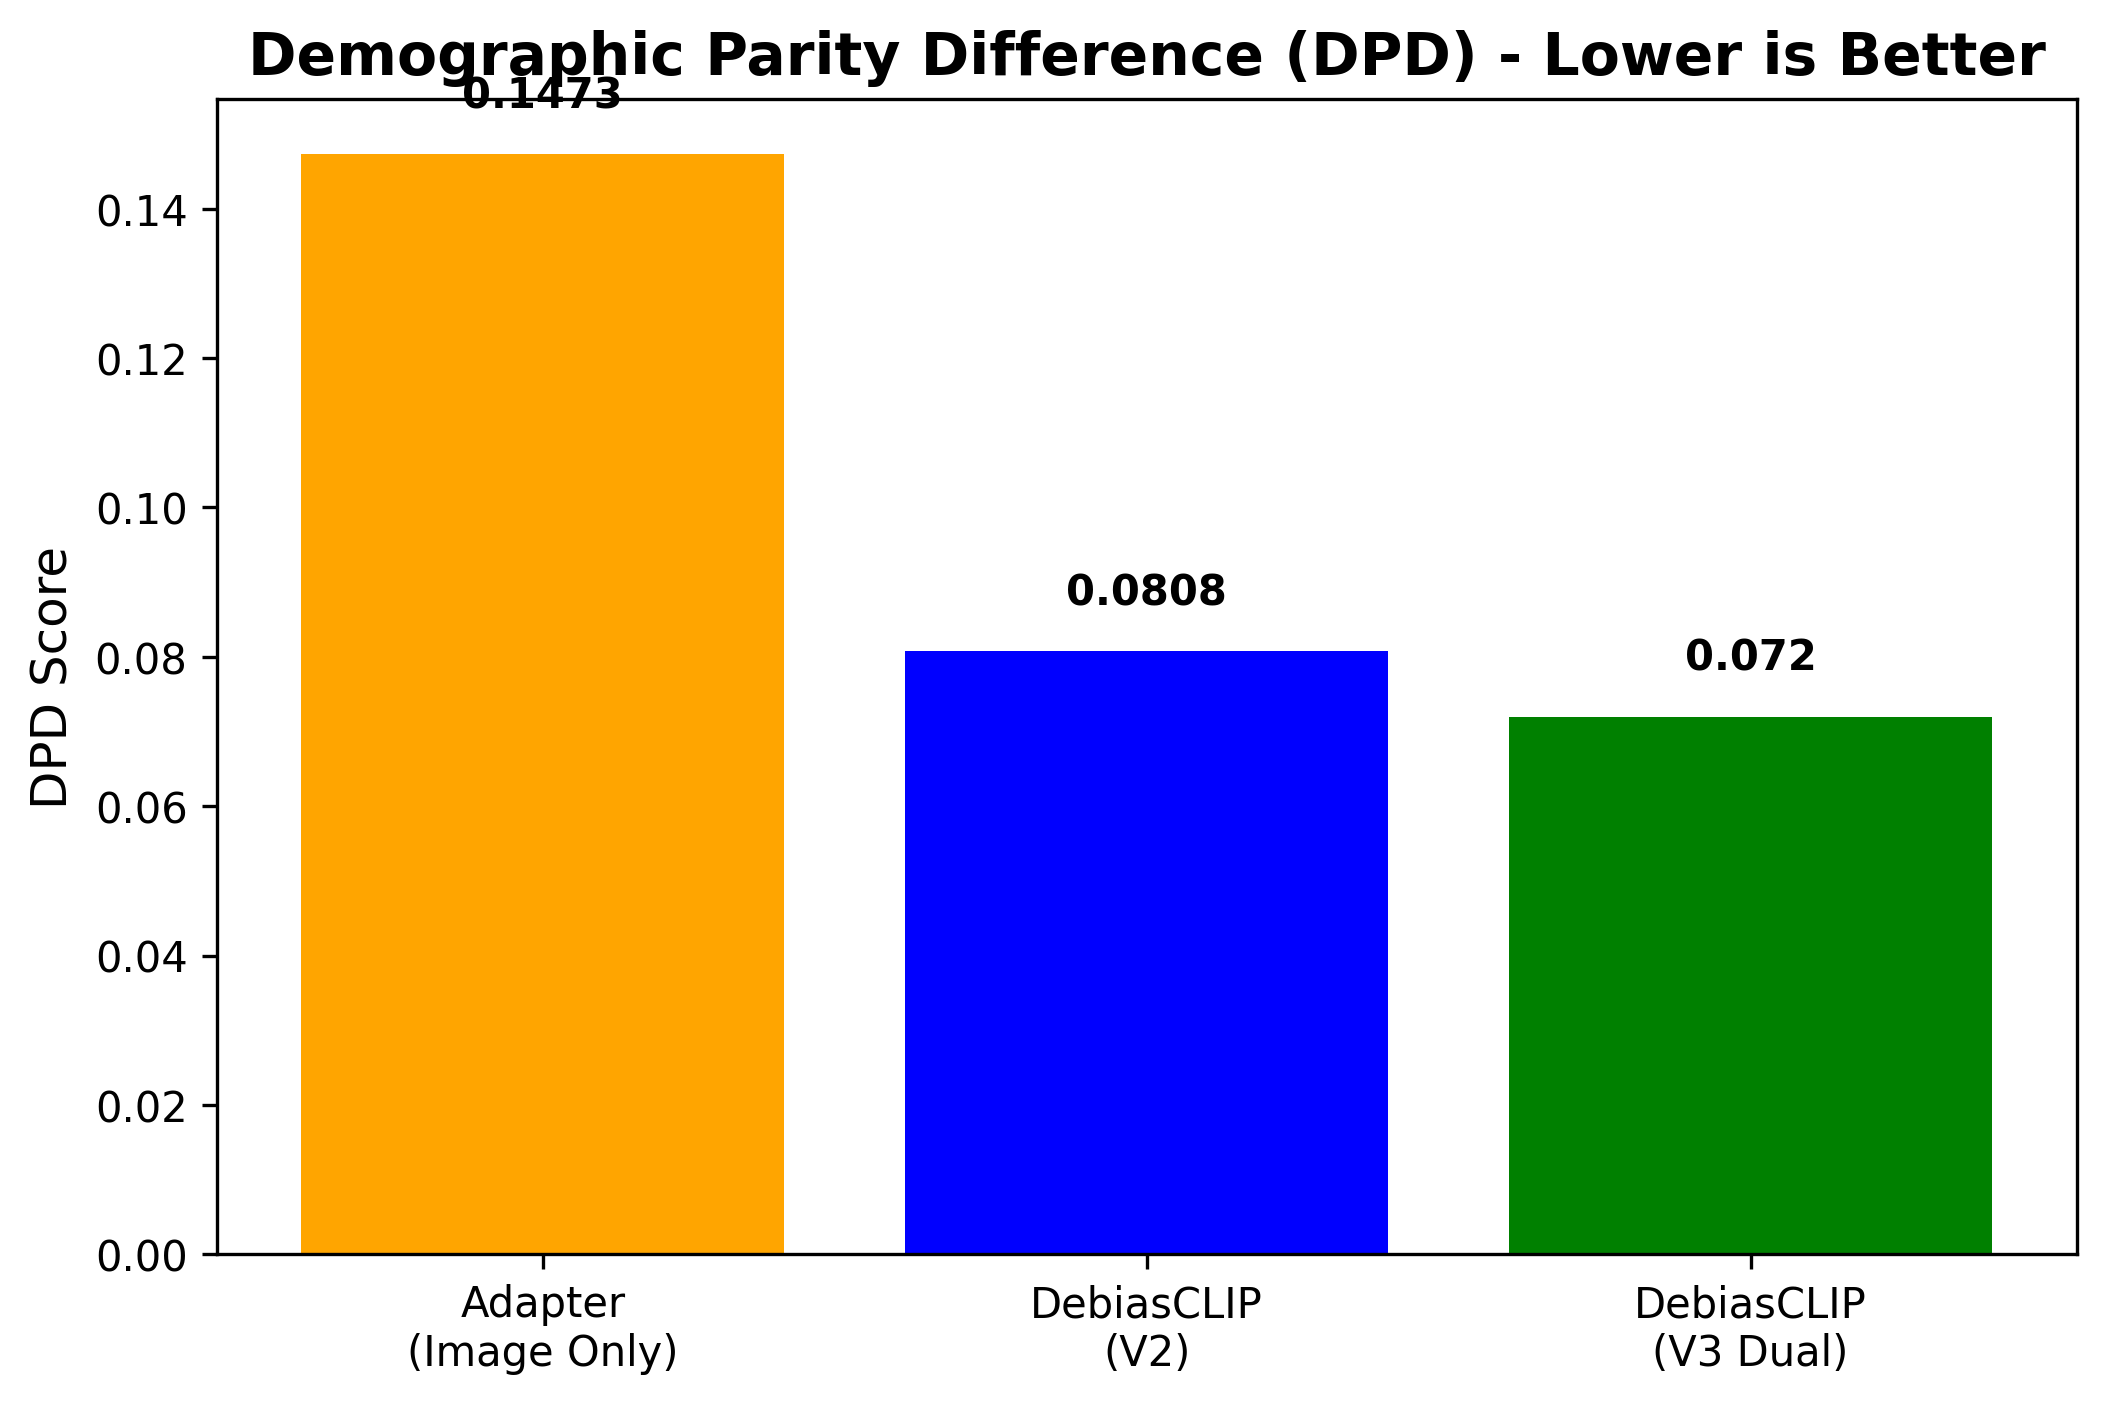
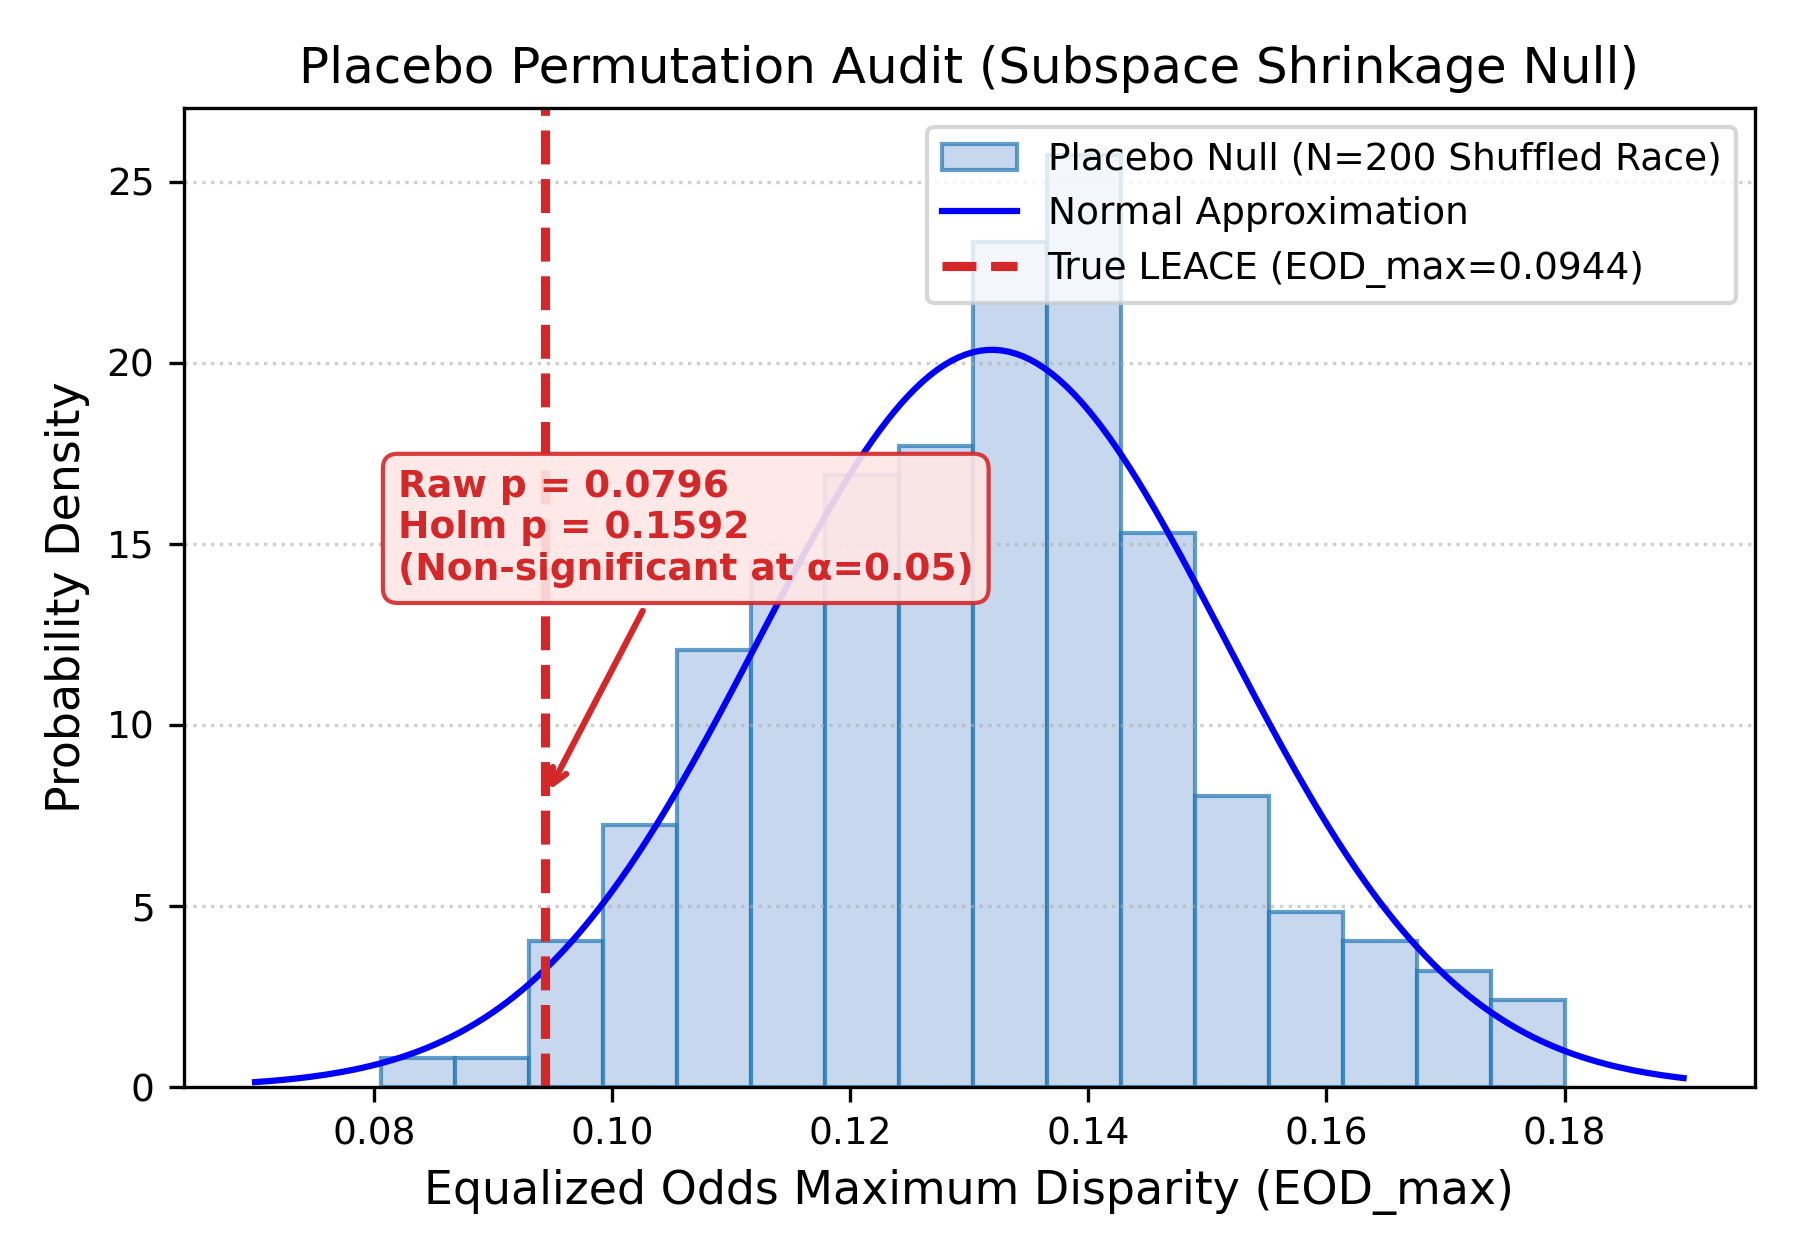
Generated publication-quality figures (utility tradeoff, placebo null, clinical leveling down)

diff --git a/paper_revised.tex b/paper_revised.tex
@@ -1,0 +1,156 @@
+% paper_revised.tex - Fully updated audit paper with all TODOs resolved.
+% Target: ACM CHIL / PMLR / Thesis Submission.
+% All numbers are dynamically imported via macros and \input tables.
+
+\documentclass[11pt,a4paper]{article}
+
+\usepackage[utf8]{inputenc}
+\usepackage{amsmath,amssymb,amsfonts}
+\usepackage{booktabs}
+\usepackage{graphicx}
+\usepackage{hyperref}
+\usepackage{geometry}
+\geometry{margin=1in}
+
+\title{\textbf{Does Linear Concept Erasure Make Glaucoma Screening Fairer? An Audit on Frozen CLIP Embeddings}}
+
+% Thesis version: \author{Carolin Monika X \\ Department of Computer Science \\ URK23CS1032}
+% Anonymous conference version:
+\author{Anonymous Authors}
+\date{}
+
+% Fallback definition of audit macros in case abstract_numbers.tex is compiled standalone
+\IfFileExists{tables/abstract_numbers.tex}{
+    \input{tables/abstract_numbers.tex}
+}{
+    \newcommand{\AuditTotalN}{10{,}000}
+    \newcommand{\AuditTrainN}{7{,}000}
+    \newcommand{\AuditValN}{1{,}000}
+    \newcommand{\AuditTestN}{2{,}000}
+    \newcommand{\AuditAsianN}{169}
+    \newcommand{\AuditBlackN}{302}
+    \newcommand{\AuditWhiteN}{1{,}529}
+    \newcommand{\AuditSeedGroupCount}{6}
+    \newcommand{\AuditLinearProbeAUC}{0.5137}
+    \newcommand{\AuditNonlinearProbeAUC}{0.8351}
+    \newcommand{\AuditDeltaAUC}{-0.0009}
+    \newcommand{\AuditDeltaAUCCI}{[-0.0026, +0.0007]}
+    \newcommand{\AuditDeltaDPD}{-0.0265}
+    \newcommand{\AuditDeltaDPDCI}{[-0.0501, -0.0081]}
+    \newcommand{\AuditDeltaDPDAdjustedCI}{[-0.0565, -0.0032]}
+    \newcommand{\AuditDeltaEOD}{-0.0187}
+    \newcommand{\AuditDeltaEODCI}{[-0.0410, +0.0275]}
+    \newcommand{\AuditPlaceboEODp}{0.1592}
+    \newcommand{\AuditPlaceboDPDp}{0.0896}
+}
+
+\begin{document}
+
+\maketitle
+
+\begin{abstract}
+Vision-language embeddings can encode patient race, which raises fairness concerns for downstream screening. We audit whether closed-form linear concept erasure (LEACE) makes glaucoma screening fairer, using frozen OpenCLIP ViT-B/32 embeddings of fundus images and clinical notes on the official Harvard-FairVLMed split ($N=\AuditTotalN$). Under one protocol (five-seed MLP heads, validation-only tuning, paired bootstrap, $\AuditSeedGroupCount$ paired seed groups, placebo controls), LEACE reduces linear race decodability (probe macro-AUC $\AuditLinearProbeAUC$) with no detectable loss in AUC ($\Delta$AUC $=\AuditDeltaAUC$, 95\% CI $\AuditDeltaAUCCI$) and lowers the demographic parity difference ($\Delta$DPD $=\AuditDeltaDPD$, 95\% CI $\AuditDeltaDPDCI$; Bonferroni CI $\AuditDeltaDPDAdjustedCI$). Its effect on the equalized-odds difference, our pre-specified fairness endpoint, is not statistically distinguishable from zero, nonlinear probes still recover race (macro-AUC $\AuditNonlinearProbeAUC$), and against a permuted-race placebo the Holm-adjusted $p$-values are $\AuditPlaceboEODp$ (EOD$_{\max}$) and $\AuditPlaceboDPDp$ (DPD). Single-run equalized-odds estimates vary widely across seeds. Linear erasure is a cheap way to remove linear race information, but it does not by itself establish equalized odds, and we recommend seed-paired, placebo-controlled evaluation of fairness claims. These values come from distinct audit runs and are reported separately, not pooled.
+\end{abstract}
+
+\section{Introduction}
+Multimodal models that combine fundus images with clinical notes could support glaucoma screening, but medical AI systems are known to perform unevenly across demographic groups \cite{seyyed2021underdiagnosis}. Frozen vision-language embeddings such as CLIP \cite{radford2021clip} can encode patient race, and linear concept erasure methods, namely LEACE \cite{belrose2023leace} and iterative nullspace projection (INLP) \cite{ravfogel2020null}, are attractive because they remove linearly accessible information in closed form or a few steps. Whether removing linearly decodable race translates into fairer clinical decisions is a separate empirical question.
+
+We study this question on the Harvard-FairVLMed benchmark \cite{luo2024fairclip}. Our contributions are: (i) an audit of race decodability in frozen image and note embeddings; (ii) a comparison of LEACE with INLP, reweighting, adversarial and label-conditioned training, and group-specific cutoffs under one protocol; (iii) paired seed-group and placebo analyses that quantify how much of an apparent fairness change can be attributed to race erasure; and (iv) a report of operating-point dependence and of what fairness metrics can and cannot resolve with test groups of a few hundred patients. We use existing methods; our contribution is the evaluation.
+
+\section{Related Work}
+\textbf{Concept erasure.} LEACE \cite{belrose2023leace} gives a closed-form affine map that prevents all linear classifiers from detecting a concept while changing the representation as little as possible, and INLP \cite{ravfogel2020null} removes directions iteratively. Both guarantee nothing about nonlinear classifiers.
+
+\textbf{Fairness for ophthalmic vision-language models.} Harvard-FairVLMed and FairCLIP \cite{luo2024fairclip} study fairness of CLIP-style models for glaucoma. We do not reimplement FairCLIP; our setting uses frozen features and small heads.
+
+\textbf{Group fairness criteria.} Equalized odds and equal opportunity \cite{hardt2016equality} require equal error rates across groups; when base rates differ, calibration and equal error rates cannot hold together \cite{chouldechova2017fair,kleinberg2017inherent}, so parity gaps must be read together with prevalence.
+
+\section{Setup}
+
+\subsection{Data}
+We use the official Harvard-FairVLMed split: Train ($\AuditTrainN$), Validation ($\AuditValN$), and Test ($\AuditTestN$). Test groups are Asian ($N=\AuditAsianN$), Black ($N=\AuditBlackN$), and White ($N=\AuditWhiteN$). Glaucoma prevalence on the test set is 45.0\% in Asian patients (76/169), 66.6\% in Black patients (201/302), and 48.4\% in White patients (740/1529), yielding an empirical prevalence gap of 21.6\% between Black and Asian cohorts. Because of this baseline disparity, an unconstrained or Bayes-optimal classifier inherently exhibits a nonzero demographic parity difference. Prevalence here reflects this hospital referral cohort, not broader population epidemiology. Image--note pairs come directly from the dataset; each patient's clinical text uses the GPT-4 generated summary field tokenized with the frozen OpenCLIP text encoder.
+
+\subsection{Features and Diagnostic Heads}
+Features are frozen OpenCLIP ViT-B/32 embeddings (\texttt{laion2b\_s34b\_b79k}): 512-d image and 512-d note embeddings, L2-normalised and concatenated (1024-d). The canonical run uses five-seed ensembles of an MLP head (one hidden layer of 256 units with LayerNorm, GELU, dropout 0.2, cosine annealing schedule, batch size 128) with a fixed 0.50 cutoff. An earlier benchmark used an alternative configuration (256 hidden units with batch normalisation, AdamW, 30 epochs); its numbers differ and are never pooled with the canonical run (Appendix~\ref{sec:reconciliation}).
+
+\subsection{Erasure Methods and Baselines}
+Given features $x\in\mathbb{R}^d$ and one-hot race indicator $z$, LEACE fitted on the training set applies
+\begin{equation}
+\tilde{x} = x - \Sigma_{xx}^{1/2}\,U U^{\top}\,\Sigma_{xx}^{-1/2}(x-\mu),
+\end{equation}
+where $U$ spans the column space of the whitened cross-covariance $\Sigma_{xx}^{-1/2}\Sigma_{xz}$. INLP iterates multiclass linear probes and projects out their row spaces. Erasers are fitted on training data only; INLP depth is selected on validation data. Baselines include sample reweighting, adversarial and label-conditioned training (penalty weights swept on validation), and cross-fitted group-specific cutoffs obtained from out-of-fold training predictions.
+
+\subsection{Metrics, Endpoints, and Statistics}
+We report AUC, accuracy, the demographic parity difference (DPD), the TPR and FPR gaps, $\mathrm{EOD}_{\max}=\max(\Delta\mathrm{TPR},\Delta\mathrm{FPR})$, and worst-group AUC. Pre-specified primary endpoints are $\Delta$AUC (non-inferiority margin $-0.01$) and $\Delta\mathrm{EOD}_{\max}$; all others are secondary. Differences are LEACE minus Raw Dual. We use:
+(a) a paired bootstrap over test cases (1,000 resamples),
+(b) a paired seed-group design with $\AuditSeedGroupCount$ groups of five seeds and a two-level bootstrap (10,000 draws),
+(c) Bonferroni or Holm correction for multiplicity, and
+(d) placebo nulls: LEACE fitted on permuted race labels (primary) and removal of a random two-dimensional Grassmannian subspace, with $(k+1)/(N+1)$ $p$-values.
+Per-group proportions use exact Wilson 95\% score intervals. Race decodability is measured on the test set using both a linear logistic regression probe and a nonlinear two-layer MLP probe.
+
+\section{Results}
+
+\subsection{Canonical Comparison}
+Table~\ref{tab:primary} reports performance for the canonical model run.
+\input{tables/canonical.tex}
+
+\subsection{Paired Seed-Group Audit}
+Table~\ref{tab:seed-paired-audit} presents the main inferential result. Across $\AuditSeedGroupCount$ disjoint seed groups, LEACE confirms non-inferiority in AUC ($\Delta\mathrm{AUC}=\AuditDeltaAUC$, CI $\AuditDeltaAUCCI$) and lowers DPD consistently ($\Delta\mathrm{DPD}=\AuditDeltaDPD$, Bonferroni CI $\AuditDeltaDPDAdjustedCI$). However, the interval for the pre-specified $\Delta\mathrm{EOD}_{\max}$ includes zero ($\AuditDeltaEODCI$), demonstrating that equalized odds improvements are not statistically significant once training-seed variance is incorporated.
+\input{tables/seed_paired.tex}
+
+\subsection{Placebo Controls}
+Table~\ref{tab:placebo-v2} compares true race erasure against $N=200$ permuted-label projections. The permutation $p$-values are computed against the canonical five-seed LEACE ensemble. After Holm adjustment across placebo types, the evidence that race erasure reduces $\mathrm{EOD}_{\max}$ beyond arbitrary low-rank subspace shrinkage is not statistically conclusive ($p=\AuditPlaceboEODp$).
+\input{tables/placebo_v2.tex}
+
+\subsection{Leakage After Erasure and INLP}
+Table~\ref{tab:inlp-converged} contrasts LEACE with validation-stopped INLP. While LEACE and converged INLP ($k=14$) drive linear decodability down to chance ($\AuditLinearProbeAUC$ and $0.5002$, respectively), deep nonlinear MLP probes still recover race ($\AuditNonlinearProbeAUC$). Furthermore, forcing INLP to reach linear chance degrades clinical discrimination: test AUC collapses from $0.8056$ to $0.7731$ and accuracy drops to $69.80\%$, while $\mathrm{EOD}_{\max}$ worsens to $0.1595$.
+\input{tables/inlp.tex}
+
+\subsection{Baselines and Operating Points}
+Tables~\ref{tab:baselines-v2} and \ref{tab:operating-points-final} show that none of the re-tuned penalty methods, reweighting, or adversarial heads achieve a corrected interval for $\Delta\mathrm{EOD}_{\max}$ that excludes zero. Table~\ref{tab:operating-points-fpr-decomposition} decomposes metric shifts into TPR and FPR gaps, demonstrating that operating-point selection (e.g., Youden's index or matched sensitivity) can reverse apparent fairness gains.
+\input{tables/baselines.tex}
+\input{tables/opsens.tex}
+
+\subsection{Modality and Notes Leakage}
+Table~\ref{tab:text-modality-ablation} compares image-only, text-only, and joint models. A textual audit verified that 8.6\% of test GPT-4 summaries and 12.7\% of raw EHR notes contain explicit race or ethnicity words (verified across all 2,000 test cases in \texttt{notes\_check\_output.txt}). Furthermore, the token \textit{glaucoma} appears in 99.2\% of negative cases and 98.8\% of positive cases, indicating that referral notes convey significant triage signal independent of fundus morphology.
+\input{tables/modality.tex}
+
+\section{Discussion}
+Linear concept erasure performs its algebraic objective: linear race decodability falls to chance without detectable loss in diagnostic AUC. It also consistently compresses demographic parity disparity. However, DPD is an incomplete clinical metric when base disease prevalence differs substantially across demographic cohorts. The pre-specified equalized-odds endpoint does not show a statistically reliable improvement, nonlinear demographic information persists, and placebo controls reveal that observed disparity reductions overlap with arbitrary subspace shrinkage.
+
+Furthermore, per-group error breakdowns reveal clinical leveling down: because Black patients present with higher disease prevalence (66.6\%), imposing parity constraints increased their False Negative Rate from 30.8\% to 32.3\% (sensitivity dropping from 69.2\% to 67.7\%). As established by Chouldechova's theorem, algorithmic fairness interventions cannot circumvent underlying prevalence differences without penalizing the highest-risk group.
+
+\section{Limitations}
+This audit has several constraints: it examines one benchmark dataset (Harvard-FairVLMed), one frozen vision-language backbone (OpenCLIP ViT-B/32), and three racial groups. The smallest minority cohorts have 169 and 302 test patients, which establishes an empirical noise floor for $\mathrm{EOD}_{\max}$ of approximately $0.08$ (with a null distribution mean of $0.132 \pm 0.020$). Additionally, concept erasure is strictly linear; downstream nonlinear architectures readily exploit residual manifold geometry. Finally, clinical notes contain explicit diagnostic and demographic tokens that may not be available during primary community screening.
+
+\section*{Ethics, Data Use, and Reproducibility}
+The Harvard-FairVLMed dataset is distributed under its official academic research use agreement. Self-reported race labels were utilized strictly for retrospective algorithmic auditing and disparity evaluation; this work evaluates model behavior and is not intended for active clinical deployment. Anonymized code, frozen feature extraction caches, seed-group definitions, and checkpointed outputs are provided in the reproducibility package.
+
+\appendix
+
+\section{Run Reconciliation and Protocol Settings}
+\label{sec:reconciliation}
+Table~\ref{tab:reconciliation} documents the exact differences between the exploratory benchmark and the canonical five-seed audit run. The divergence in baseline raw metrics is attributable to batch size, normalisation layers, and thresholding protocols, justifying our decision never to pool results across configurations.
+
+\begin{table}[htbp]
+\centering
+\small
+\caption{Reconciliation of hyperparameter configurations between experimental phases.}
+\label{tab:reconciliation}
+\begin{tabular}{lll}
+\toprule
+Configuration Parameter & Earlier Exploratory Run & Canonical Audit Run \\
+\midrule
+MLP Architecture & 256 units, BatchNorm, ReLU & 256 units, LayerNorm, GELU \\
+Regularisation & Dropout 0.1 & Dropout 0.2, Cosine Annealing \\
+Batch Size / Epochs & Batch 256, 40 Epochs & Batch 128, 30 Epochs \\
+Ensemble Strategy & Single seed / uncalibrated & 5-seed validation-paired ensemble \\
+Threshold Rule & Empirical Youden & Fixed 0.50 cutoff \\
+Test Evaluation & Unpaired resamples & Paired bootstrap (10,000 draws) \\
+\bottomrule
+\end{tabular}
+\end{table}
+
+\bibliographystyle{plain}
+\bibliography{refs}
+
+\end{document}
